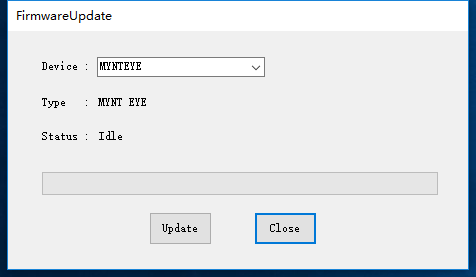
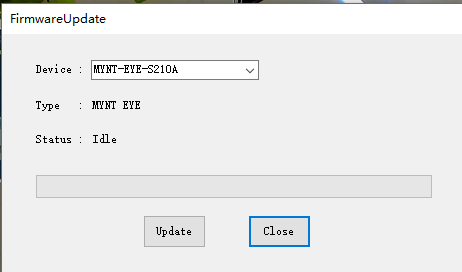
Update firmware upgrade

diff --git a/src/mynteye/intro.rst b/src/mynteye/intro.rst
@@ -3,14 +3,10 @@
 产品介绍
 ==========
 
-小觅双目摄像头（MYNT® EYE）标准版，利用摄像头和运动传感器的互补性，可为视觉 SLAM 的研究提供精度更高、成本更低、部署简单且可以实现人脸和物体识别的视觉研发硬件。就目前而言，”双目+IMU”的研发方式仍然是SLAM 研发的最前沿方向。
+小觅双目摄像头彩色标准版（MYNT EYE  S Color）以“视觉+结构光+惯性导航”融合为方案核心，提供 8cm/12cm 可选基线方案，超广角146°FOV ，提供更广阔的深度识别范围和精度水平，是小觅智能推出的行业领先的双目深度相机应用与研发平台。彩色标准版系列提供基于CUDA的GPU实时加速方案，产品配备了彩色镜头、全新升级 BMI088 六轴 IMU 、IR 主动光、硬件级帧同步、全局快门等领先的硬件方案，分辨率最高可高达 2560x800 ，精度可达厘米级。
 
-作为一款针对立体视觉计算应用进行深入研发的硬件产品，小觅双目摄像头（MYNT® EYE）标准版可广泛应用于视觉定位导航（vSLAM）领域，包括：无人车和机器人的视觉实时定位导航系统、无人机视觉定位系统、无人驾驶避障导航系统、增强现实（AR）、虚拟现实（VR）等；同时，双目也可应用于视觉识别领域，包括：立体人脸识别、三维物体识别、空间运动追踪、三维手势与体感识别等；亦可应用于测量领域，包括：辅助驾驶系统（ADAS）、双目体积计算、工业视觉筛检等。
+作为基于视觉识别技术的 3D 传感器，小觅双目摄像头彩色标准版可适用于室内外双重环境。全新升级的 BMI088 6 轴 IMU 可为视觉定位算法的研究提供数据的互补和校正，适用于视觉惯性里程计（VIO）的算法研究，帮助提升定位精度，IR主动光可以完美解决了室内白墙和无纹理物体的识别难题。“双目+IMU”的惯性导航方案，可为VSLAM的应用提供精准的六轴互补数据，并且相较其他单一方案拥有更高精度和鲁棒性。此外，小觅双目摄像头彩色标准版产品（MYNT EYE S Color）还提供丰富的 SDK 接口和 VSLAM 开源项目支持，可以帮助客户迅速进行方案集成，加速实现产品研发进程，实现方案的快速产品化和落地。
 
-结合自研的帧同步、自动曝光及白平衡控制等摄像头技术，小觅双目摄像头（MYNT® EYE）标准版可以输出高精度同步的图像源，帮助降低算法研发难度，加快算法研发效率。同时，标准版产品标配六轴传感器（IMU）和红外主动光探测器（IR）。其中，六轴传感器（IMU）可为视觉定位算法的研究提供数据的互补和校正，适用于视觉惯性里程计（VIO）的算法研究，帮助提升定位精度；红外主动光探测器（IR）可以帮助解决室内白墙和无纹理物体的识别难题，提升图像源的识别精度。
+小觅双目摄像头彩色标准版（MYNT EYE S Color）可广泛应用于视觉定位导航（vSLAM）领域，包括：无人车和机器人的视觉实时定位导航系统、无人机视觉定位系统、无人驾驶避障导航系统、增强现实（AR）、虚拟现实（VR）等；双目也可应用于视觉识别领域，包括：立体人脸识别、三维物体识别、空间运动追踪、三维手势与体感识别等；应用于测量领域，包括：辅助驾驶系统（ADAS）、双目体积计算、工业视觉筛检等。目前，小觅智能已与国内外 500 余家企业客户开展了服务与合作。
 
-为保证摄像头产品输出数据质量，产品出厂时，我们已对双目进行标定。同时，产品通过权威顶尖实验室高温高湿持续工作、高温高湿持续操作、低温动态老化、高温工作、低温存储、整机冷热冲击、正弦振动、随机振动等多项硬件稳定性测试，保证品质的稳定和可靠。除了产品和技术的研发，亦可直接应用于产品量产，加速从研发到产品化的过程。
-
-产品推出至今，获得了国内外诸多知名企业认可，除了已经面世的标准版“S”系列，未来还将推出内置深度计算能力的“D”系列产品。客户可根据目标平台的算力、运算架构等因素，选择合适的产品。
-
-以成为全球顶尖的立体视觉计算技术解决方案供应商为目标，我们一直在不断优化与完善软硬件，让小觅双目摄像头成为最优的立体视觉技术研发与应用平台。
+为保证摄像头产品输出数据质量，产品出厂时，我们已对双目以及 IMU 进行标定。同时，产品通过富士康实验室的高温高湿持续工作、高温高湿持续操作、低温动态老化、高温工作、低温存储、整机冷热冲击、正弦振动、随机振动等多项产品质量测试，保证品质的稳定和可靠。除了产品和技术的研发，亦可直接应用于产品量产，加速从研发到产品化的过程。

diff --git a/src/analytics/dataset.rst b/src/analytics/dataset.rst
@@ -9,37 +9,30 @@ SDK 提供了录制数据集的工具 ``record`` 。工具详情可见 `tools/RE
 
 .. code-block:: bash
 
-  ./tools/_output/bin/dataset/record
-
-  # Windows
-  .\tools\_output\bin\dataset\record.bat
+  ./tools/_output/bin/dataset/record2
 
 参考运行结果，于 Linux 上：
 
 .. code-block:: bash
 
-  $ ./tools/_output/bin/dataset/record
-  I0513 21:28:57.128947 11487 utils.cc:26] Detecting MYNT EYE devices
-  I0513 21:28:57.807116 11487 utils.cc:33] MYNT EYE devices:
-  I0513 21:28:57.807155 11487 utils.cc:37]   index: 0, name: MYNT-EYE-S1000
-  I0513 21:28:57.807163 11487 utils.cc:43] Only one MYNT EYE device, select index: 0
-  I0513 21:28:57.808437 11487 channels.cc:114] Option::GAIN: min=0, max=48, def=24, cur=24
-  I0513 21:28:57.809999 11487 channels.cc:114] Option::BRIGHTNESS: min=0, max=240, def=120, cur=120
-  I0513 21:28:57.818678 11487 channels.cc:114] Option::CONTRAST: min=0, max=255, def=127, cur=127
-  I0513 21:28:57.831529 11487 channels.cc:114] Option::FRAME_RATE: min=10, max=60, def=25, cur=25
-  I0513 21:28:57.848914 11487 channels.cc:114] Option::IMU_FREQUENCY: min=100, max=500, def=200, cur=500
-  I0513 21:28:57.865185 11487 channels.cc:114] Option::EXPOSURE_MODE: min=0, max=1, def=0, cur=0
-  I0513 21:28:57.881434 11487 channels.cc:114] Option::MAX_GAIN: min=0, max=48, def=48, cur=48
-  I0513 21:28:57.897598 11487 channels.cc:114] Option::MAX_EXPOSURE_TIME: min=0, max=240, def=240, cur=240
-  I0513 21:28:57.913918 11487 channels.cc:114] Option::DESIRED_BRIGHTNESS: min=0, max=255, def=192, cur=192
-  I0513 21:28:57.930177 11487 channels.cc:114] Option::IR_CONTROL: min=0, max=160, def=0, cur=0
-  I0513 21:28:57.946341 11487 channels.cc:114] Option::HDR_MODE: min=0, max=1, def=0, cur=0
-  Saved 1007 imgs, 20040 imus to ./dataset
-  I0513 21:29:38.608772 11487 record.cc:118] Time beg: 2018-05-13 21:28:58.255395, end: 2018-05-13 21:29:38.578696, cost: 40323.3ms
-  I0513 21:29:38.608853 11487 record.cc:121] Img count: 1007, fps: 24.9732
-  I0513 21:29:38.608873 11487 record.cc:123] Imu count: 20040, hz: 496.983
-
-默认录制进 ``<workdir>/dataset`` 目录。你也可以加参数，指定录制到其他目录。
+  I/utils.cc:30 Detecting MYNT EYE devices
+  I/utils.cc:40 MYNT EYE devices:
+  I/utils.cc:43   index: 0, name: MYNT-EYE-S210A, sn: 07C60A190009071F
+  I/utils.cc:51 Only one MYNT EYE device, select index: 0
+  I/channels.cc:140 Option::BRIGHTNESS: min=0, max=255, def=192, cur=120
+  I/channels.cc:140 Option::EXPOSURE_MODE: min=0, max=1, def=0, cur=0
+  I/channels.cc:140 Option::MAX_GAIN: min=0, max=255, def=8, cur=8
+  I/channels.cc:140 Option::MAX_EXPOSURE_TIME: min=0, max=1000, def=333, cur=333
+  I/channels.cc:140 Option::DESIRED_BRIGHTNESS: min=1, max=255, def=122, cur=122
+  I/channels.cc:140 Option::MIN_EXPOSURE_TIME: min=0, max=1000, def=0, cur=0
+  I/channels.cc:140 Option::ACCELEROMETER_RANGE: min=6, max=48, def=12, cur=12
+  I/channels.cc:140 Option::GYROSCOPE_RANGE: min=250, max=4000, def=1000, cur=1000
+  I/channels.cc:140 Option::ACCELEROMETER_LOW_PASS_FILTER: min=0, max=2, def=2, cur=2
+  I/channels.cc:140 Option::GYROSCOPE_LOW_PASS_FILTER: min=23, max=64, def=64, cur=64
+  Saved 1024 imgs, 13799 imus to ./dataset
+  I/record2.cc:128 Time beg: 2018-12-10 19:21:25.971245, end: 2018-12-10 19:22:00.090891, cost: 34119.6ms
+  I/record2.cc:131 Img count: 1024, fps: 30.012
+  I/record2.cc:133 Imu count: 13799, hz: 404.43
 
 录制内容如下：
 

diff --git a/src/data/get_img_params.rst b/src/data/get_img_params.rst
@@ -22,12 +22,12 @@
 .. code-block:: bash
 
   $ ./samples/_output/bin/tutorials/get_img_params
-  I0510 15:00:22.643263  6980 utils.cc:26] Detecting MYNT EYE devices
-  I0510 15:00:23.138811  6980 utils.cc:33] MYNT EYE devices:
-  I0510 15:00:23.138849  6980 utils.cc:37]   index: 0, name: MYNT-EYE-S1000
-  I0510 15:00:23.138855  6980 utils.cc:43] Only one MYNT EYE device, select index: 0
-  I0510 15:00:23.210491  6980 get_img_params.cc:23] Intrinsics left: {width: 752, height: 480, fx: 736.38305001095545776, fy: 723.50066150722432212, cx: 356.91961817119693023, cy: 217.27271340923883258, model: 0, coeffs: [-0.54898645145016478, 0.52837141203888638, 0.00000000000000000, 0.00000000000000000, 0.00000000000000000]}
-  I0510 15:00:23.210551  6980 get_img_params.cc:24] Intrinsics right: {width: 752, height: 480, fx: 736.38305001095545776, fy: 723.50066150722432212, cx: 456.68367112303980093, cy: 250.70083335536796199, model: 0, coeffs: [-0.51012886039889305, 0.38764476500996770, 0.00000000000000000, 0.00000000000000000, 0.00000000000000000]}
-  I0510 15:00:23.210577  6980 get_img_params.cc:26] Extrinsics left to right: {rotation: [0.99701893306553813, -0.00095378124886237, -0.07715139279485062, 0.00144939967628305, 0.99997867219985104, 0.00636823256494144, 0.07714367342455503, -0.00646107164115277, 0.99699905125522237], translation: [-118.88991734400046596, -0.04560580387053091, -3.95313736911933855]}
+  I/utils.cc:30 Detecting MYNT EYE devices
+  I/utils.cc:40 MYNT EYE devices:
+  I/utils.cc:43   index: 0, name: MYNT-EYE-S210A, sn: 07C60A190009071F
+  I/utils.cc:51 Only one MYNT EYE device, select index: 0
+  I/get_img_params.cc:24 Intrinsics left: {width: 640, height: 400, fx: 197.39641213416058463, fy: 197.72337597617189431, cx: 326.11983633916327108, cy: 199.86969132833945650, model: 0, coeffs: [0.12135236310725651, -0.08544277604917704, 0.00249148986319835, -0.00377520636582569, 0.00000000000000000]}
+  I/get_img_params.cc:25 Intrinsics right: {width: 640, height: 400, fx: 203.35498653655989187, fy: 204.53858622699007697, cx: 315.89962248180813731, cy: 218.71688038954812328, model: 0, coeffs: [0.02290433055924156, -0.02956199007997184, 0.00397259427609815, -0.00396890732149456, 0.00000000000000000]}
+  I/get_img_params.cc:27 Extrinsics right to left: {rotation: [0.99998850083695123, 0.00181660606427100, 0.00443825824777764, -0.00192636787222994, 0.99968925981619028, 0.02485302627404664, -0.00439173094434902, -0.02486129020314243, 0.99968126367795229], translation: [82.27020089055552887, 1.95351443600690589, -2.25880343444823684]}
 
 完整代码样例，请见 `get_img_params.cc <https://github.com/slightech/MYNT-EYE-S-SDK/blob/master/samples/tutorials/data/get_img_params.cc>`_ 。

diff --git a/src/data/get_device_info.rst b/src/data/get_device_info.rst
@@ -25,17 +25,17 @@
 .. code-block:: bash
 
   $ ./samples/_output/bin/tutorials/get_device_info
-  I0503 16:40:21.109391 32106 utils.cc:13] Detecting MYNT EYE devices
-  I0503 16:40:21.604116 32106 utils.cc:20] MYNT EYE devices:
-  I0503 16:40:21.604127 32106 utils.cc:24]   index: 0, name: MYNT-EYE-S1000
-  I0503 16:40:21.604142 32106 utils.cc:30] Only one MYNT EYE device, select index: 0
-  I0503 16:40:21.615054 32106 get_device_info.cc:10] Device name: MYNT-EYE-S1000
-  I0503 16:40:21.615113 32106 get_device_info.cc:11] Serial number: 0610243700090720
-  I0503 16:40:21.615129 32106 get_device_info.cc:12] Firmware version: 2.0
-  I0503 16:40:21.615139 32106 get_device_info.cc:13] Hardware version: 2.0
-  I0503 16:40:21.615146 32106 get_device_info.cc:14] Spec version: 1.0
-  I0503 16:40:21.615155 32106 get_device_info.cc:15] Lens type: 0000
-  I0503 16:40:21.615164 32106 get_device_info.cc:16] IMU type: 0000
-  I0503 16:40:21.615171 32106 get_device_info.cc:17] Nominal baseline: 120
+  I/utils.cc:30 Detecting MYNT EYE devices
+  I/utils.cc:40 MYNT EYE devices:
+  I/utils.cc:43   index: 0, name: MYNT-EYE-S210A, sn: 07C60A190009071F
+  I/utils.cc:51 Only one MYNT EYE device, select index: 0
+  I/get_device_info.cc:24 Device name: MYNT-EYE-S210A
+  I/get_device_info.cc:25 Serial number: 07C60A190009071F
+  I/get_device_info.cc:26 Firmware version: 1.0
+  I/get_device_info.cc:27 Hardware version: 1.0
+  I/get_device_info.cc:28 Spec version: 1.1
+  I/get_device_info.cc:29 Lens type: 0001
+  I/get_device_info.cc:30 IMU type: 0001
+  I/get_device_info.cc:31 Nominal baseline: 80
 
 完整代码样例，请见 `get_device_info.cc <https://github.com/slightech/MYNT-EYE-S-SDK/blob/master/samples/tutorials/data/get_device_info.cc>`_ 。

diff --git a/src/firmware/upgrade.rst b/src/firmware/upgrade.rst
@@ -1,11 +1,11 @@
 .. _firmware_upgrade:
 
-固件如何进行升级
-==================
+相机/板载mcu固件及ISP如何进行升级
+===================================
 
-固件升级，需要使用我们提供的固件升级程序：MYNT EYE TOOL。
+相机升级，需要使用我们提供的相机升级程序：MYNT EYE TOOL。
 
-固件及MYNT EYE TOOL的安装包，都在 `MYNTEYE_BOX <http://doc.myntai.com/mynteye/s/download>`_ 的 ``Firmwares`` 目录内。文件结构如下：
+MYNT EYE TOOL的安装包，都在 `MYNTEYE_BOX <http://doc.myntai.com/mynteye/s/download>`_ 的 ``Firmwares`` 目录内。文件结构如下：
 
 .. code-block:: none
 
@@ -64,11 +64,12 @@
 .. image:: ../../images/firmware_update_success.png
    :width: 60%
 
+* 如果是需要升级板载ISP或者板载MCU，打开MYNT EYE TOOL之后点击 ``Options/BoardUpdate`` ，点击 ``IspUpdate`` 或者 ``Stm32Update`` 。
+
+.. image:: ../../images/board_update.png
+   :width: 60%
+
 * 关闭MYNT EYE TOOL，结束。
-
-.. warning::
-
-  固件升级后，初次打开 MYNT® EYE 设备时，请静置 3 秒，其会有一个零漂补偿过程。或者，请主动调用控制接口 ``RunOptionAction(Option::ZERO_DRIFT_CALIBRATION)`` 来进行零漂补偿。
 
 .. ::
 

diff --git a/src/data/write_imu_params.rst b/src/data/write_imu_params.rst
@@ -13,9 +13,6 @@ SDK 提供了写入 IMU 标定参数的工具 ``imu_params_writer`` 。工具详
 
   ./tools/_output/bin/writer/imu_params_writer tools/writer/config/imu.params
 
-  # Windows
-  .\tools\_output\bin\writer\imu_params_writer.bat tools\writer\config\imu.params
-
 其中， `tools/writer/config/imu.params <https://github.com/slightech/MYNT-EYE-S-SDK/blob/master/tools/writer/config/imu.params>`_ 是参数文件路径。如果你自己标定了参数，可以编辑此文件，然后执行上述命令写入设备。
 
 .. warning::
